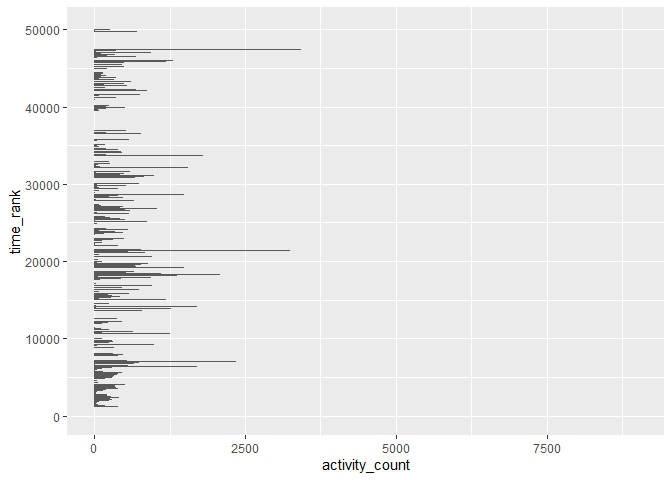
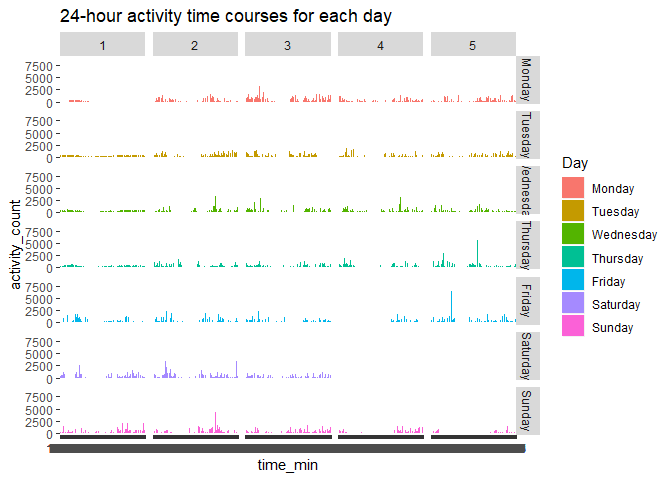
change graph for last problem of problem 3 and add description

diff --git a/p8105_hw3_xl2934.md b/p8105_hw3_xl2934.md
@@ -138,14 +138,12 @@ ordered from.
 <!-- end list -->
 
 ``` r
-aisle_count = 
-  aisle_count %>% 
-  filter(n > 10000) %>% 
-  arrange(n)
-
 aisle_count %>% 
-  ggplot(aes(x = aisle, y = n)) + 
+  filter(n > 10000) %>% 
+  arrange(n) %>% 
+  ggplot(aes(x = reorder(aisle,n), y = n)) + 
   geom_bar(stat = "identity") +
+  coord_flip() +
   labs(
     title = "items' number ordered in aisles containing more than 10000 ordered",
     y = "number of item"
@@ -153,10 +151,6 @@ aisle_count %>%
 ```
 
 ![](p8105_hw3_xl2934_files/figure-gfm/unnamed-chunk-3-1.png)<!-- -->
-
-``` r
-# how to Arrange aisles sensibly  
-```
 
   - Make a table showing the three most popular items in each of the
     aisles “baking ingredients”, “dog food care”, and “packaged
@@ -208,10 +202,6 @@ instacart %>%
 |          4 |             15.2 |             11.9 |
 |          5 |             10.3 |             13.9 |
 |          6 |             12.4 |             11.6 |
-
-``` r
-# 2*7? order coffee ice cream and pink lady apples in the same time?
-```
 
 # Problem 2
 
@@ -380,7 +370,7 @@ data = bind_rows(weekday, weekend) %>%
 data = data  %>% 
   pivot_longer(
     activity.1:activity.1440,
-    names_to = "time(min)",
+    names_to = "time_min",
     names_prefix = "activity.",
     values_to = "activity_count"
   )
@@ -396,7 +386,7 @@ str(data)
     ##  $ day_id        : num  2 2 2 2 2 2 2 2 2 2 ...
     ##  $ day           : chr  "Monday" "Monday" "Monday" "Monday" ...
     ##  $ day_rank      : int  1 1 1 1 1 1 1 1 1 1 ...
-    ##  $ time(min)     : chr  "1" "2" "3" "4" ...
+    ##  $ time_min      : chr  "1" "2" "3" "4" ...
     ##  $ activity_count: num  1 1 1 1 1 1 1 1 1 1 ...
 
 The resulting data have 50400 observations in total and 8 variables
@@ -480,31 +470,15 @@ apparent there.
 <!-- end list -->
 
 ``` r
-data
-```
-
-    ## # A tibble: 50,400 x 8
-    ##    period   week  day_ day_id day    day_rank `time(min)` activity_count
-    ##    <chr>   <dbl> <int>  <dbl> <chr>     <int> <chr>                <dbl>
-    ##  1 weekday     1     1      2 Monday        1 1                        1
-    ##  2 weekday     1     1      2 Monday        1 2                        1
-    ##  3 weekday     1     1      2 Monday        1 3                        1
-    ##  4 weekday     1     1      2 Monday        1 4                        1
-    ##  5 weekday     1     1      2 Monday        1 5                        1
-    ##  6 weekday     1     1      2 Monday        1 6                        1
-    ##  7 weekday     1     1      2 Monday        1 7                        1
-    ##  8 weekday     1     1      2 Monday        1 8                        1
-    ##  9 weekday     1     1      2 Monday        1 9                        1
-    ## 10 weekday     1     1      2 Monday        1 10                       1
-    ## # ... with 50,390 more rows
-
-``` r
- data %>% 
-  mutate(time_rank = 1:50400) %>% 
-  ggplot(aes(x = time_rank, y = activity_count), color = period) +
+data %>% 
+  ggplot(aes(x = time_min, y = activity_count, fill = reorder(day, day_))) +
   geom_bar(stat = "identity") +
   ylim(0,9000) +
-  coord_flip()
+  facet_grid(reorder(day, day_) ~ week) +
+  labs(
+    title = "24-hour activity time courses for each day"
+  ) + 
+  scale_fill_discrete(name = "Day")
 ```
 
 ![](p8105_hw3_xl2934_files/figure-gfm/unnamed-chunk-14-1.png)<!-- -->
